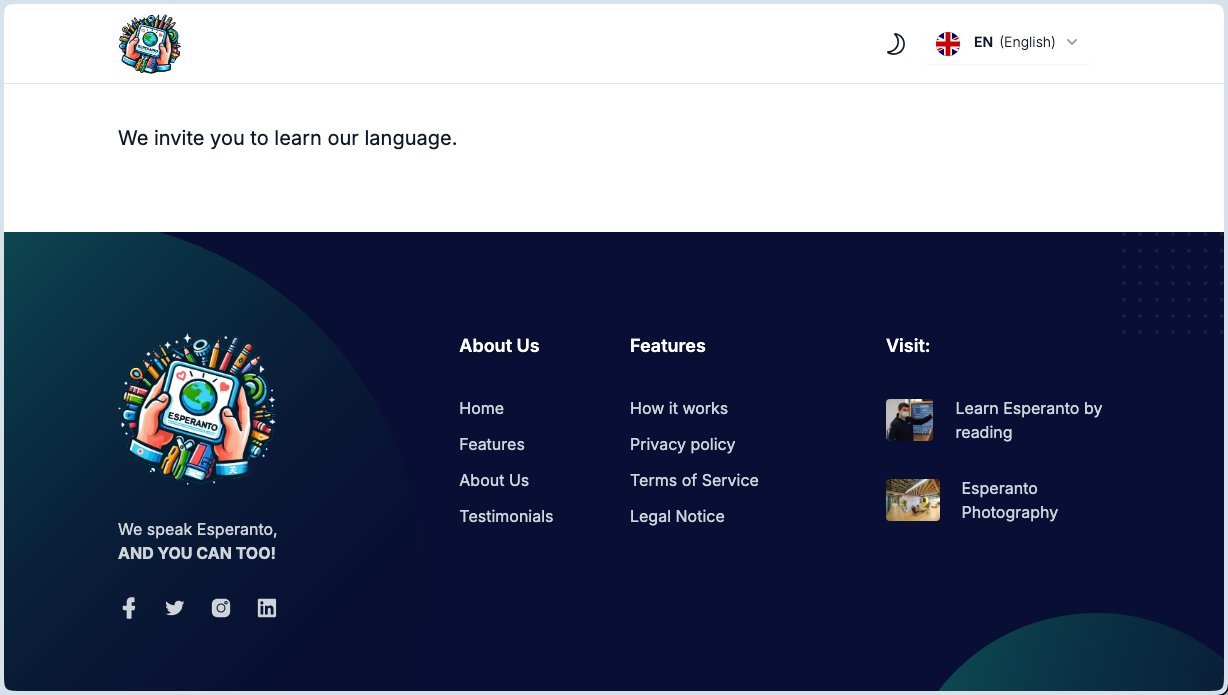
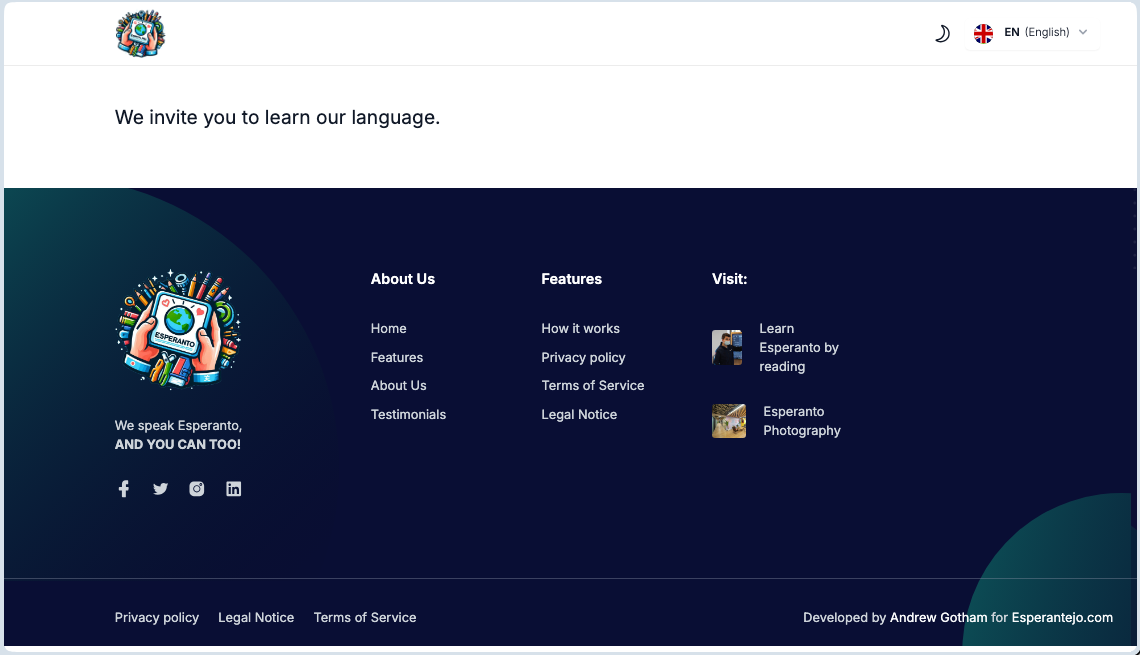
footer links served be Page MVC

diff --git a/resources/views/frontend/default/layouts/footer.blade.php b/resources/views/frontend/default/layouts/footer.blade.php
@@ -1,4 +1,4 @@
-<!-- ====== Footer Section Start -->
+{{-- ====== Footer Section Start --}}
 <footer class="wow fadeInUp relative z-10 bg-[#090E34] pt-20 lg:pt-[100px]" data-wow-delay=".15s" style="visibility: hidden; animation-delay: 0.15s; animation-name: none;">
     <div class="container">
         <div class="flex flex-wrap -mx-4">
@@ -47,17 +47,17 @@
                             </a>
                         </li>
                         <li>
-                            <a href="javascript:void(0)" class="inline-block mb-3 text-base text-gray-7 hover:text-primary">
+                            <a href="{{ route('page.show', 'features') }}" class="inline-block mb-3 text-base text-gray-7 hover:text-primary">
                                 {{ __('Features') }}
                             </a>
                         </li>
                         <li>
-                            <a href="javascript:void(0)" class="inline-block mb-3 text-base text-gray-7 hover:text-primary">
+                            <a href="{{ route('page.show', 'about') }}" class="inline-block mb-3 text-base text-gray-7 hover:text-primary">
                                 {{ __('About Us') }}
                             </a>
                         </li>
                         <li>
-                            <a href="javascript:void(0)" class="inline-block mb-3 text-base text-gray-7 hover:text-primary">
+                            <a href="{{ route('page.show', 'testimonials') }}" class="inline-block mb-3 text-base text-gray-7 hover:text-primary">
                                 {{ __('Testimonials') }}
                             </a>
                         </li>
@@ -69,22 +69,22 @@
                     <h4 class="text-lg font-semibold text-white mb-9">{{ __('Features') }}</h4>
                     <ul>
                         <li>
-                            <a href="javascript:void(0)" class="inline-block mb-3 text-base text-gray-7 hover:text-primary">
+                            <a href="{{ route('page.show', 'how-it-works') }}" class="inline-block mb-3 text-base text-gray-7 hover:text-primary">
                                 {{ __('How it works') }}
                             </a>
                         </li>
                         <li>
-                            <a href="javascript:void(0)" class="inline-block mb-3 text-base text-gray-7 hover:text-primary">
+                            <a href="{{ route('page.show', 'privacy-policy') }}" class="inline-block mb-3 text-base text-gray-7 hover:text-primary">
                                 {{ __('Privacy policy') }}
                             </a>
                         </li>
                         <li>
-                            <a href="javascript:void(0)" class="inline-block mb-3 text-base text-gray-7 hover:text-primary">
+                            <a href="{{ route('page.show', 'terms-of-service') }}" class="inline-block mb-3 text-base text-gray-7 hover:text-primary">
                                 {{ __('Terms of Service') }}
                             </a>
                         </li>
                         <li>
-                            <a href="javascript:void(0)" class="inline-block mb-3 text-base text-gray-7 hover:text-primary">
+                            <a href="{{ route('page.show', 'legal-notice') }}" class="inline-block mb-3 text-base text-gray-7 hover:text-primary">
                                 {{ __('Legal Notice') }}
                             </a>
                         </li>
@@ -114,29 +114,6 @@
                     </div>
                 </div>
             </div>
-{{--            <div class="w-full px-4 md:w-2/3 lg:w-6/12 xl:w-3/12">--}}
-{{--                <div class="w-full mb-10">--}}
-{{--                    <h4 class="text-lg font-semibold text-white mb-9">Visit:</h4>--}}
-{{--                    <div class="flex flex-col gap-8">--}}
-{{--                        <a href="https://legalerno.esperantejo.com" class="group flex items-center gap-[22px]">--}}
-{{--                            <div class="overflow-hidden rounded">--}}
-{{--                                <img class="max-w-[64px] h-auto" src="{{ asset('assets/frontend/images/blog/blog-01.jpg') }}" alt="Legalerno" />--}}
-{{--                            </div>--}}
-{{--                            <span class="max-w-[180px] text-gray-7 text-base group-hover:text-white">--}}
-{{--                                Learn Esperanto through reading--}}
-{{--                            </span>--}}
-{{--                        </a>--}}
-{{--                        <a href="https://fotoj.esperantejo.com" class="group flex items-center gap-[22px]">--}}
-{{--                            <div class="overflow-hidden rounded">--}}
-{{--                                <img class="max-w-[64px] h-auto" src="{{ asset('assets/frontend/images/blog/blog-02.jpg') }}" alt="FotoEsperanta">--}}
-{{--                            </div>--}}
-{{--                            <span class="max-w-[180px] text-gray-7 text-base group-hover:text-white">--}}
-{{--                            Esperanto Photography--}}
-{{--                </span>--}}
-{{--                        </a>--}}
-{{--                    </div>--}}
-{{--                </div>--}}
-{{--            </div>--}}
         </div>
     </div>
 
@@ -149,10 +126,10 @@
                             <a href="{{ route('page.show', 'privacy-policy') }}" class="px-3 text-base text-gray-7 hover:text-white hover:underline">
                                 {{ __('Privacy policy') }}
                             </a>
-                            <a href="javascript:void(0)" class="px-3 text-base text-gray-7 hover:text-white hover:underline">
+                            <a href="{{ route('page.show', 'legal-notice') }}" class="px-3 text-base text-gray-7 hover:text-white hover:underline">
                                 {{ __('Legal Notice') }}
                             </a>
-                            <a href="javascript:void(0)" class="px-3 text-base text-gray-7 hover:text-white hover:underline">
+                            <a href="{{ route('page.show', 'terms-of-service') }}" class="px-3 text-base text-gray-7 hover:text-white hover:underline">
                                 {{ __('Terms of Service') }}
                             </a>
                         </div>
@@ -183,7 +160,7 @@
 
         <span class="absolute bottom-0 right-0 z-[-1]">
             {!! file_get_contents(public_path('assets/frontend/images/footer/shape-3.svg')) !!}
-      </span>
+        </span>
 
         <span class="absolute top-0 right-0 z-[-1]">
         <svg width="102" height="102" viewBox="0 0 102 102" fill="none" xmlns="http://www.w3.org/2000/svg">
@@ -240,4 +217,4 @@
       </span>
     </div>
 </footer>
-<!-- ====== Footer Section End -->
+{{--// ====== Footer Section End --}}

diff --git a/database/seeders/PageSeeder.php b/database/seeders/PageSeeder.php
@@ -21,6 +21,7 @@ class PageSeeder extends Seeder
                 'title' => 'Privacy Policy',
                 'slug' => 'privacy-policy',
                 'content' => 'Our privacy policy',
+                'is_active' => true,
                 'created_at' => now(),
                 'updated_at' => now(),
             ],
@@ -30,7 +31,8 @@ class PageSeeder extends Seeder
                 'language_id' => 37,
                 'title' => 'Legal Notice',
                 'slug' => 'legal-notice',
-                'content' => 'Our privacy policy',
+                'content' => 'Legal Notice',
+                'is_active' => true,
                 'created_at' => now(),
                 'updated_at' => now(),
             ],
@@ -40,7 +42,8 @@ class PageSeeder extends Seeder
                 'language_id' => 37,
                 'title' => 'Terms of Service',
                 'slug' => 'terms-of-service',
-                'content' => 'Our privacy policy',
+                'content' => 'Terms of Service',
+                'is_active' => true,
                 'created_at' => now(),
                 'updated_at' => now(),
             ],
@@ -51,6 +54,7 @@ class PageSeeder extends Seeder
                 'title' => 'About',
                 'slug' => 'about',
                 'content' => 'About our project',
+                'is_active' => true,
                 'created_at' => now(),
                 'updated_at' => now(),
             ],
@@ -61,6 +65,7 @@ class PageSeeder extends Seeder
                 'title' => 'Testimonials',
                 'slug' => 'testimonials',
                 'content' => 'Some testimonials',
+                'is_active' => true,
                 'created_at' => now(),
                 'updated_at' => now(),
             ],
@@ -71,6 +76,7 @@ class PageSeeder extends Seeder
                 'title' => 'Features',
                 'slug' => 'features',
                 'content' => 'Features of the KURSARO system',
+                'is_active' => true,
                 'created_at' => now(),
                 'updated_at' => now(),
             ],
@@ -81,6 +87,7 @@ class PageSeeder extends Seeder
                 'title' => 'How it works',
                 'slug' => 'how-it-works',
                 'content' => 'Brief description of the system functionality',
+                'is_active' => true,
                 'created_at' => now(),
                 'updated_at' => now(),
             ],
@@ -91,6 +98,7 @@ class PageSeeder extends Seeder
                 'title' => 'Privateca Politiko',
                 'slug' => 'privateca-politiko',
                 'content' => 'Nia Privateca Politiko',
+                'is_active' => true,
                 'created_at' => now(),
                 'updated_at' => now(),
             ],
@@ -101,6 +109,7 @@ class PageSeeder extends Seeder
                 'title' => 'Leĝa Avizo',
                 'slug' => 'lega-avizo',
                 'content' => 'Nia Leĝa Avizo',
+                'is_active' => true,
                 'created_at' => now(),
                 'updated_at' => now(),
             ],
@@ -111,6 +120,7 @@ class PageSeeder extends Seeder
                 'title' => 'Servokondiĉoj',
                 'slug' => 'servokondicoj',
                 'content' => 'Niaj Servokondiĉoj',
+                'is_active' => true,
                 'created_at' => now(),
                 'updated_at' => now(),
             ],
@@ -121,6 +131,7 @@ class PageSeeder extends Seeder
                 'title' => 'Pri la projekto',
                 'slug' => 'pri-la-projekto',
                 'content' => 'Informoj pri la projekto',
+                'is_active' => true,
                 'created_at' => now(),
                 'updated_at' => now(),
             ],
@@ -131,6 +142,7 @@ class PageSeeder extends Seeder
                 'title' => 'Atestoj',
                 'slug' => 'atestoj',
                 'content' => 'Atestoj de kelkaj vizitantoj',
+                'is_active' => true,
                 'created_at' => now(),
                 'updated_at' => now(),
             ],
@@ -141,6 +153,7 @@ class PageSeeder extends Seeder
                 'title' => 'Karakterizaĵoj',
                 'slug' => 'karakterizajxoj',
                 'content' => 'Kiuj karakteristikoj havas la sistemo',
+                'is_active' => true,
                 'created_at' => now(),
                 'updated_at' => now(),
             ],
@@ -151,6 +164,7 @@ class PageSeeder extends Seeder
                 'title' => 'Kiel sistemo funkcias',
                 'slug' => 'kiel-sistemo-funkcias',
                 'content' => 'Priskribo pri kiel la sistemo funkcias',
+                'is_active' => true,
                 'created_at' => now(),
                 'updated_at' => now(),
             ],

diff --git a/app/Http/Controllers/Frontend/PageController.php b/app/Http/Controllers/Frontend/PageController.php
@@ -3,65 +3,22 @@
 namespace App\Http\Controllers\Frontend;
 
 use App\Http\Controllers\Controller;
-use App\Http\Requests\StorePageRequest;
-use App\Http\Requests\UpdatePageRequest;
+use App\Models\Language;
 use App\Models\Page;
 
-class PageController
+class PageController extends Controller
 {
-    /**
-     * Display a listing of the resource.
-     */
-    public function index()
+    public function __invoke(string $slug)
     {
-        //
-    }
+        $language_id = Language::where('code', app()->getLocale())->first()->id;
+        $default = Page::where([['slug', $slug],['page_id', null]])->first();
+        $page = Page::where([['is_active', true],['page_id', $default->id],['language_id', $language_id]])->first();
 
-    /**
-     * Show the form for creating a new resource.
-     */
-    public function create()
-    {
-        //
-    }
+        if($page == null)
+        {
+            $page = $default;
+        }
 
-    /**
-     * Store a newly created resource in storage.
-     */
-    public function store(StorePageRequest $request)
-    {
-        //
-    }
-
-    /**
-     * Display the specified resource.
-     */
-    public function show(Page $page)
-    {
-        return $page;
-    }
-
-    /**
-     * Show the form for editing the specified resource.
-     */
-    public function edit(Page $page)
-    {
-        //
-    }
-
-    /**
-     * Update the specified resource in storage.
-     */
-    public function update(UpdatePageRequest $request, Page $page)
-    {
-        //
-    }
-
-    /**
-     * Remove the specified resource from storage.
-     */
-    public function destroy(Page $page)
-    {
-        //
+        return view('frontend.default.home.index', ['content' => $page->content]);
     }
 }

diff --git a/resources/views/frontend/default/pages/show.blade.php b/resources/views/frontend/default/pages/show.blade.php
@@ -1,0 +1,9 @@
+<x-frontend-layout>
+    <section class="pt-10 pb-10 lg:pt-10 lg:pb-20 dark:bg-dark">
+        <div class="container">
+            <span class="mb-4 text-xl text-dark dark:text-white hover:text-primary dark:hover:text-primary sm:text-2xl lg:text-xl xl:text-2xl">
+                {!!  $content !!}
+            </span>
+        </div>
+    </section>
+</x-frontend-layout>

diff --git a/routes/web.php b/routes/web.php
@@ -23,7 +23,6 @@ require __DIR__.'/backend.php';
 
 Auth::routes();
 
-//Route::get('/home', [App\Http\Controllers\HomeController::class, 'index'])->name('home');
 Route::get('/', HomeController::class)->name('home');
 
-Route::get('/docs/{page}', [PageController::class, 'show'])->name('page.show');
+Route::get('/docs/{slug}', PageController::class)->name('page.show');

diff --git a/database/migrations/2024_11_06_123603_create_pages_table.php b/database/migrations/2024_11_06_123603_create_pages_table.php
@@ -19,6 +19,7 @@ return new class extends Migration
             $table->string('slug')->nullable();
             $table->longText('content');
             $table->bigInteger('views')->default(0);
+            $table->boolean('is_active')->default(true);
             $table->timestamps();
             $table->softDeletes();
         });

diff --git a/resources/views/frontend/default/layouts/app.blade.php b/resources/views/frontend/default/layouts/app.blade.php
@@ -59,9 +59,9 @@
 {{ $slot }}
 <!-- ====== Main End ====== -->
 
-<!-- ====== Footer Section Start -->
+{{-- ====== Footer Section Start --}}
 @include('frontend.default.layouts.footer')
-<!-- ====== Footer Section End -->
+{{-- ====== Footer Section End --}}
 
 <!-- ====== Back To Top Start -->
 <a
